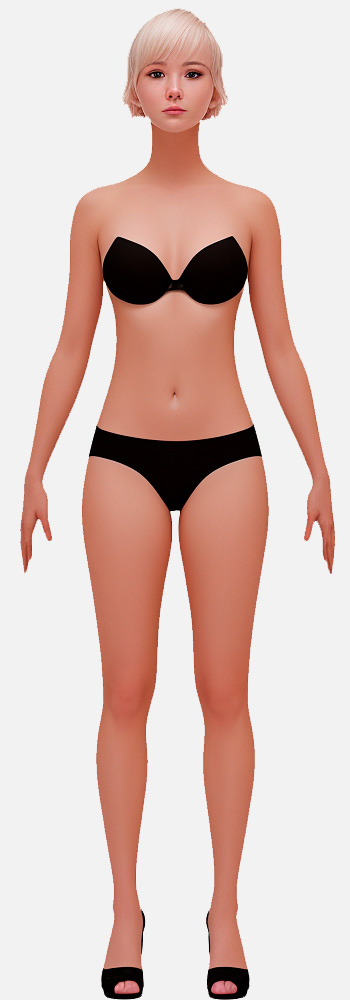
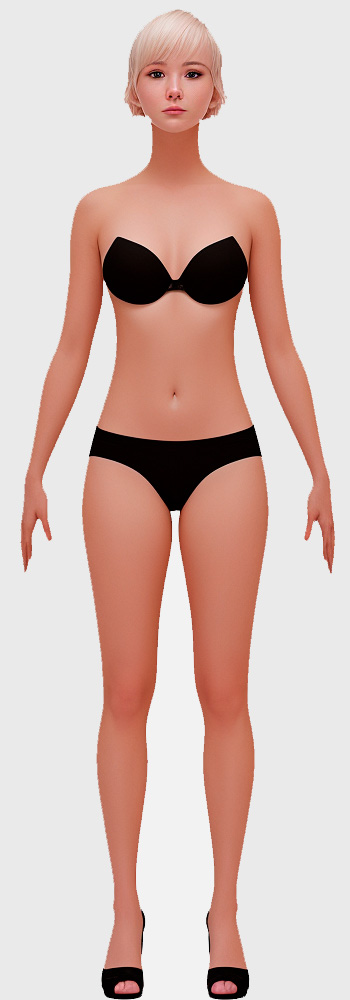
Добавил новое платье

diff --git a/index.html b/index.html
@@ -16,31 +16,34 @@
     </header>
     <main>
         <section class="dresses">
-            <article class="dress">
-                <a class="open-model"></a>
+            <article class="dress Sonya">
+                <a id="open_Sonya" class="open-model"></a>
+            </article>
+            <article class="dress Lada">
+                <a id="open_Lada" class="open-model"></a>
             </article>
         </section>
         <section class="model">
             <article class="girl">
                 <article class="swiper-container" style="margin-top: 80px;">
                     <div class="swiper-wrapper">
-                        <img src="./image/neck-0.png" class="neck swiper-slide" alt="шея">
-                        <img src="./image/neck-1.png" class="neck swiper-slide" alt="шея">
-                        <img src="./image/neck-2.png" class="neck swiper-slide" alt="шея">
+                        <img id="neck-0" src="./image/neck-0.png" class="neck swiper-slide" alt="шея">
+                        <img id="neck-1" src="./image/neck-1.png" class="neck swiper-slide" alt="шея">
+                        <img id="neck-2" src="./image/neck-2.png" class="neck swiper-slide" alt="шея">
                     </div>
                 </article>
                 <article class="swiper-container">
                     <div class="swiper-wrapper">
-                        <img src="./image/chest_belly-0.png" class="chest_belly swiper-slide" alt="шея">
-                        <img src="./image/chest_belly-1.png" class="chest_belly swiper-slide" alt="шея">
-                        <img src="./image/chest_belly-2.png" class="chest_belly swiper-slide" alt="шея">
+                        <img id="chest_belly-0" src="./image/chest_belly-0.png" class="chest_belly swiper-slide" alt="шея">
+                        <img id="chest_belly-1" src="./image/chest_belly-1.png" class="chest_belly swiper-slide" alt="шея">
+                        <img id="chest_belly-2" src="./image/chest_belly-2.png" class="chest_belly swiper-slide" alt="шея">
                     </div>
                 </article>
                 <article class="swiper-container" style="margin-bottom: 116px;">
                     <div class="swiper-wrapper">
-                        <img src="./image/legs-0.png" class="legs swiper-slide" alt="шея">
-                        <img src="./image/legs-1.png" class="legs swiper-slide" alt="шея">
-                        <img src="./image/legs-2.png" class="legs swiper-slide" alt="шея">
+                        <img id="legs-0" src="./image/legs-0.png" class="legs swiper-slide" alt="шея">
+                        <img id="legs-1" src="./image/legs-1.png" class="legs swiper-slide" alt="шея">
+                        <img id="legs-2" src="./image/legs-2.png" class="legs swiper-slide" alt="шея">
                     </div>
                 </article>
             </article>

diff --git a/scripts/script.js b/scripts/script.js
@@ -1,12 +1,28 @@
 const Dresses = document.querySelector(".dresses");
 const Model = document.querySelector(".model");
 
-const Button = document.querySelector(".open-model");
+const OpenSonya = document.querySelector("#open_Sonya");
+const OpenLada = document.querySelector("#open_Lada");
 
-Button.addEventListener('click', () => {
+function DressView(dress){
     Dresses.classList.add("dresses_close");
     Model.classList.add("model_open");
-});
+
+    document.querySelector("#neck-0").src = `./image/${dress}_neck-0.png`;
+    document.querySelector("#neck-1").src = `./image/${dress}_neck-1.png`;
+    document.querySelector("#neck-2").src = `./image/${dress}_neck-2.png`;
+
+    document.querySelector("#chest_belly-0").src = `./image/${dress}_chest_belly-0.png`;
+    document.querySelector("#chest_belly-1").src = `./image/${dress}_chest_belly-1.png`;
+    document.querySelector("#chest_belly-2").src = `./image/${dress}_chest_belly-2.png`;
+
+    document.querySelector("#legs-0").src = `./image/${dress}_legs-0.png`;
+    document.querySelector("#legs-1").src = `./image/${dress}_legs-1.png`;
+    document.querySelector("#legs-2").src = `./image/${dress}_legs-2.png`;
+}
+
+OpenSonya.addEventListener('click', () => { DressView('Sonya')});
+OpenLada.addEventListener('click', () => { DressView('Lada')});
 
 new Swiper('.swiper-container', {
     spaceBetween: 0,

diff --git a/style.css b/style.css
@@ -7,6 +7,8 @@
 @import url("./blocks/dresses/dresses.css");
 @import url("./blocks/dresses/dresses_close.css");
 @import url("./blocks/dresses/dress.css");
+@import url("./blocks/dresses/Lada.css");
+@import url("./blocks/dresses/Sonya.css");
 @import url("./blocks/dresses/open-model.css");
 
 @import url("./blocks/model/model.css");

diff --git a/blocks/model/model.css b/blocks/model/model.css
@@ -2,7 +2,7 @@
     width: 250px;
     height: 600px;
 
-    background-color: #F2F2F2;
+    background-color: #EAEAEA;
     border-radius: 25px;
     margin: 0 auto;
     padding: 0;

diff --git a/blocks/dresses/dress.css b/blocks/dresses/dress.css
@@ -4,8 +4,7 @@
     
     margin: 50px auto;
     padding: 0; 
-
-    background-image: url("../../image/dress.gif");
+    
     background-size: cover;
 
     display: flex;

diff --git a/blocks/dresses/Lada.css b/blocks/dresses/Lada.css
@@ -1,0 +1,4 @@
+.Lada{
+    margin-top: 150px;
+    background-image: url("../../image/Lada.gif");
+}

diff --git a/blocks/dresses/Sonya.css b/blocks/dresses/Sonya.css
@@ -1,0 +1,3 @@
+.Sonya{
+    background-image: url("../../image/dress.gif");
+}
